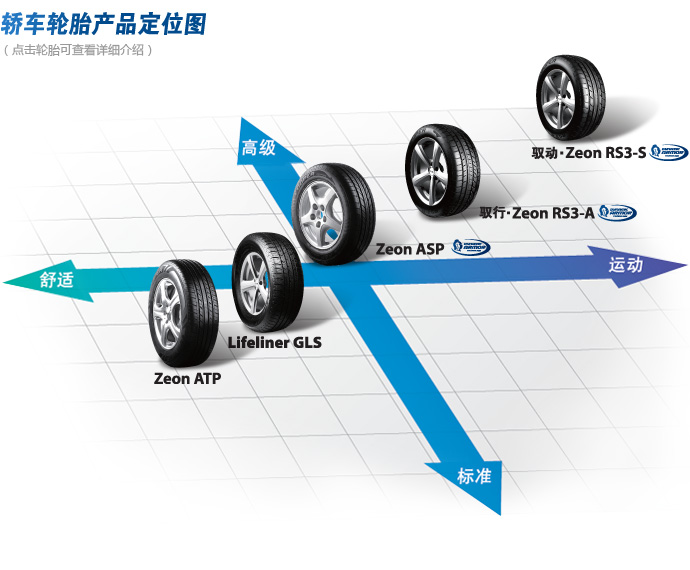
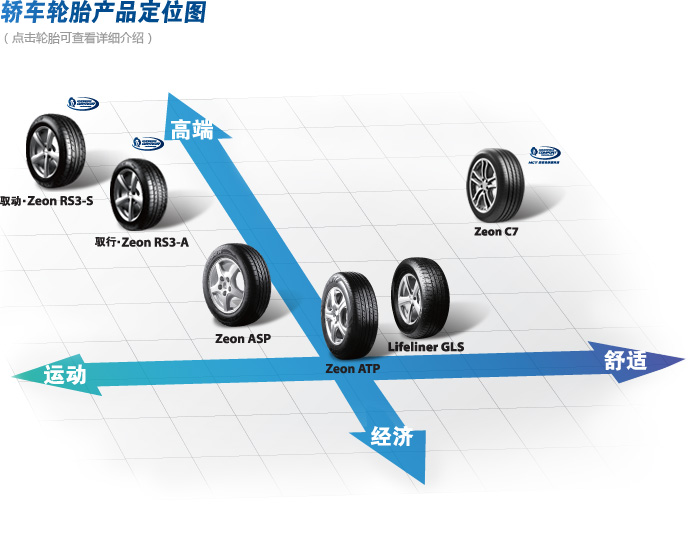
new

diff --git a/public/css/download.css b/public/css/download.css
@@ -97,19 +97,52 @@
 #shopsearch .searchtable{ padding:30px 0px;}
 #shopsearch .searchtable td{ padding:5px;}
 #shopsearch .searchtable .td{ text-align:right;}
-#shopsearch .searchtable .select{ width:205px; margin:0px 10px 0px 0px; height:22px; vertical-align:middle;  line-height:22px;}
-#products_mapping_pcr{ position:relative; background:url(../pic/products_mapping_bg.jpg) no-repeat center 20px; height:620px;}
-#products_mapping_pcr li{ width:100px; height:130px; overflow:hidden;position:absolute;}
+#products_mapping_pcr{ position:relative; background:url(../pic/products_mapping_bg.jpg) no-repeat center 20px; height:550px;}
+#products_mapping_pcr li{
+	width:80px;
+	height:120px;
+	overflow:hidden;
+	position:absolute;
+	top: 144px;
+	left: 461px;
+}
 #products_mapping_pcr li a{ display:block; height:130px; width:100px; text-indent:-99999px;}
-#products_mapping_pcr .l1{ left:125px; top:280px;}
-#products_mapping_pcr .l2{ left:225px; width:90px; top:260px;}
+#products_mapping_pcr .l1{
+	left:302px;
+	top:282px;
+}
+#products_mapping_pcr .l2{
+	left:386px;
+	width:80px;
+	top:274px;
+}
 #products_mapping_pcr .l2 a{ width:90px;}
-#products_mapping_pcr .l3{ left:289px; width:115px; top:160px;}
-#products_mapping_pcr .l3 a{ width:115px;}
-#products_mapping_pcr .l4{ left:405px; width:125px; top:145px;}
-#products_mapping_pcr .l4 a{ width:125px;}
-#products_mapping_pcr .l5{ left:525px; width:135px; top:75px;}
-#products_mapping_pcr .l5 a{ width:135px;}
+#products_mapping_pcr .l3{
+	left:196px;
+	width:85px;
+	top:256px;
+}
+#products_mapping_pcr .l3 a{ width:85px;}
+#products_mapping_pcr .l4{
+	left:96px;
+	width:95px;
+	top:160px;
+}
+#products_mapping_pcr .l4 a{ width:95px;}
+#products_mapping_pcr .l7{
+	left:-1px;
+	width:95px;
+	top:128px;
+}
+#products_mapping_pcr .l7 a{ width:95px;}
+
+#products_mapping_pcr .l8{
+	left:464px;
+	width:95px;
+	top:147px;
+}
+#products_mapping_pcr .l8 a{ width:105px;}
+
 #products_mapping{ width:698px; height:649px; margin-top:10px; position:relative; background:url(../pic/products_mapping_bgs.jpg) no-repeat 0px 20px;}
 #products_mapping li{position:absolute; overflow:hidden;}
 #products_mapping li a{ display:block; text-indent:-9999px; overflow:hidden;}

diff --git a/public/products_mapping_pcr.htm b/public/products_mapping_pcr.htm
@@ -158,11 +158,14 @@
    <div id="site"><a href="products_mapping.htm">产品和服务</a><span>&gt;</span><a href="products_mapping.htm">产品定位图</a><span>&gt;</span>轿车轮胎产品定位图</div>
    <div id="products_mapping_pcr">
      <ul>
-       <li class="l1"><a href="atp_detail.htm" title="Zeon ATP">Zeon ATP</a></li>
+      <li class="l1"><a href="atp_detail.htm" title="Zeon ATP">Zeon ATP</a></li>
        <li class="l2"><a href="gls_detail.htm" title="Lifeliner GLS">Lifeliner GLS</a></li>
        <li class="l3"><a href="asp_detail.htm" title="Zeon ASP">Zeon ASP</a></li>
        <li class="l4"><a href="rs3-a_detail.htm" title="取行.Zeon RS3-A">取行.Zeon RS3-A</a></li>
-       <li class="l5"><a href="rs3-s_detail.htm" title="驱动.Zeon RS3-S">驱动.Zeon RS3-S</a></li>
+       <li class="l7"><a href="rs3-s_detail.htm" title="驱动.Zeon RS3-S">驱动.Zeon RS3-S</a></li>
+       <li class="l8"><a href="c7_detail.html" title="Zeon C7">Zeon C7</a></li>
+       
+       
      </ul>
    </div>
    <div class="totop"><a href="#header"><img src="pic/totop.jpg" alt="回顶部" title="回顶部" /></a></div>

diff --git a/public/c7_detail.html b/public/c7_detail.html
@@ -148,7 +148,7 @@
      <div class="img"><img src="image/C7_detail_imag0.jpg" alt="" width="240" height="250" title="" /></div>
      <div class="info">
        <h3><img src="image/c7_detail_img1.jpg" alt="" width="207" height="65" title="" /></h3>
-       <div class="content">ZEON C7专为您量身定制殿堂级得舒适静音享受，采用MCT 记忆性舒适科技(Menorable Comfort Techonlogy)，给您带来更静音舒适的驾乘体验。</div>
+       <div class="content">ZEON C7专为您量身定制殿堂级得舒适静音享受，采用MCT 记忆性舒适科技(Memorable Comfort Technology)，给您带来更静音舒适的驾乘体验。</div>
        <div class="cart"><strong>适配车型</strong><span><img src="pic/cart1.jpg" alt="" title="" />紧凑型轿车</span><span><img src="pic/cart4.jpg" alt="" title="" />多用途商务车</span><span><img src="pic/cart3.jpg" alt="" title="" />高档轿车</span></div>
        <div class="xincontent">
          <ul>
